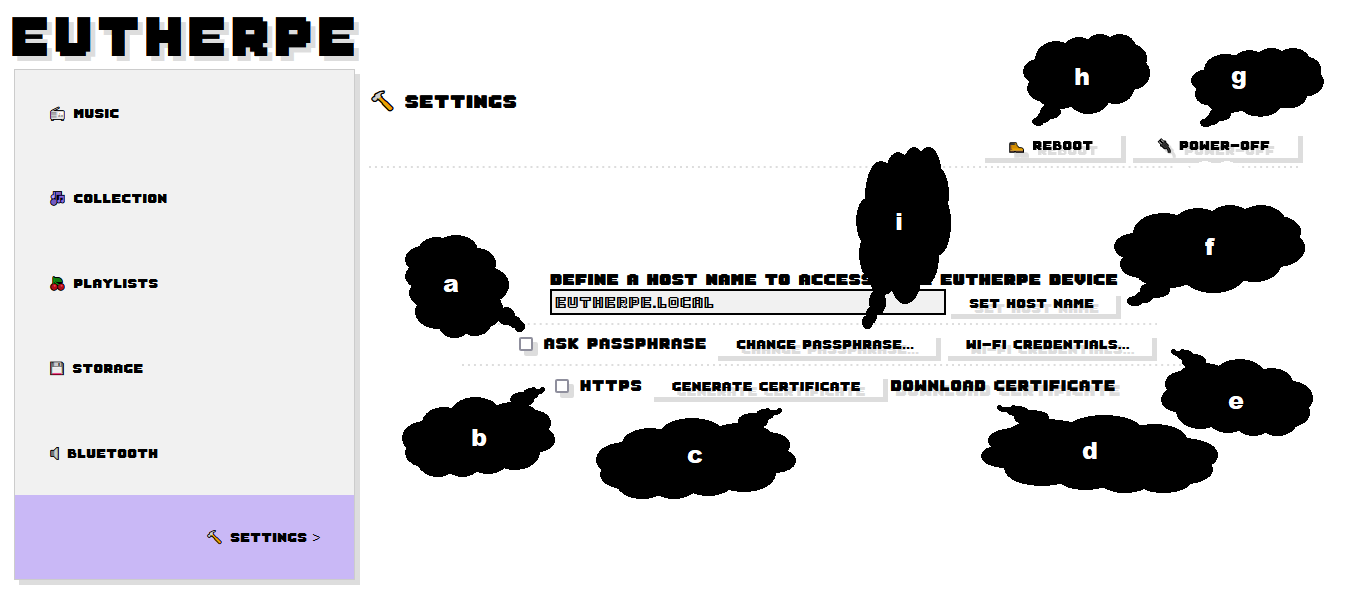
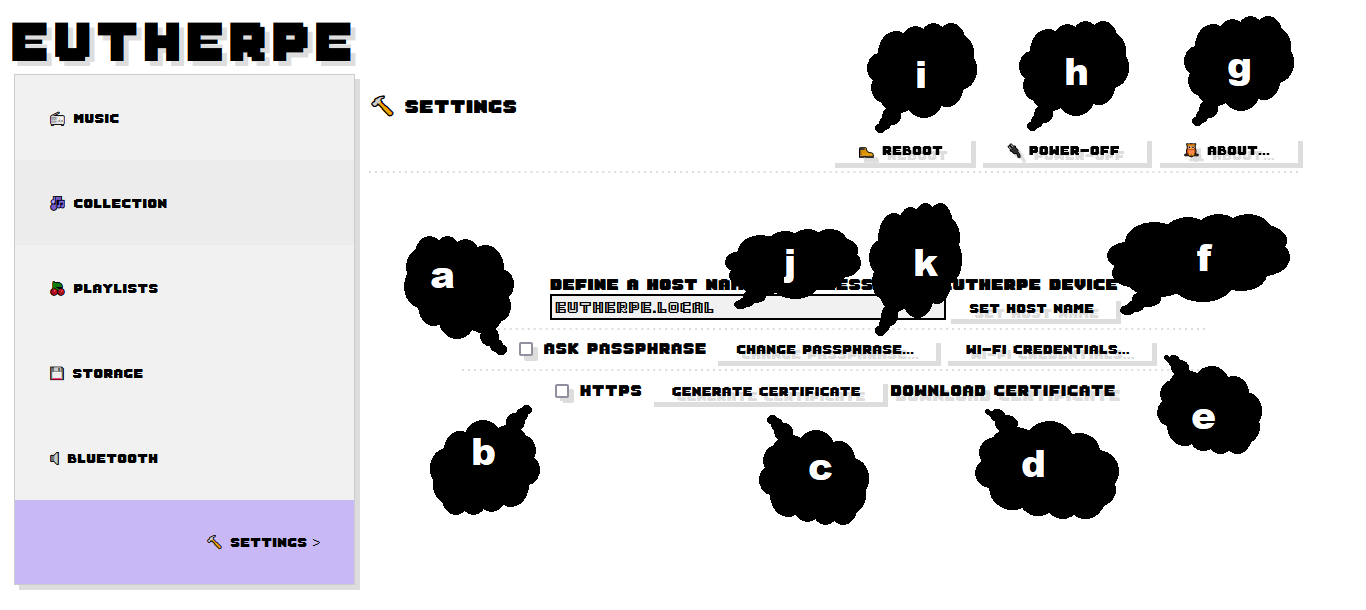
Update documentation

diff --git a/doc/MANUAL-PT.md b/doc/MANUAL-PT.md
@@ -417,13 +417,15 @@ militante/ilitante da criptografia (e com orgulho!) :smile:
 - **f.** Você confirma o nome para acessar a interface `Web Eutherpe`. É importante que seja nos moldes
 `<algo>.local`, se você digitar apenas `<algo>` `Eutherpe` vai completar isso com `.local` para
 terminar de configurar.
-- **g.** Clique aqui e você desliga o dispositivo que está rodando `Eutherpe` (isso é bom para quando
+- **g.** Clique aqui e você terá informações sobre versão e licença.
+- **h.** Clique aqui e você desliga o dispositivo que está rodando `Eutherpe` (isso é bom para quando
 você estiver rodando `Eutherpe` embarcada [na verdade essa é a ideia base] e não quiser colocar
 um botão liga/desliga na sua placa).
-- **h.** Clique aqui e você reinicia o dispositivo que está rodando `Eutherpe`, você sabe, em computação
+- **i.** Clique aqui e você reinicia o dispositivo que está rodando `Eutherpe`, você sabe, em computação
 sempre tem momentos em que acabamos precisando de um `reboot`. Embora procure deixar `Eutherpe`
 o mais estável possível para você :wink:!
-- **i.** Se você quiser alterar a senha de acesso à interface `Web` clica aqui. Se esquecer a
+- **j.** Nessa caixa de texto você define o nome para acessar a interface `Web Eutherpe`.
+- **k.** Se você quiser alterar a senha de acesso à interface `Web` clica aqui. Se esquecer a
 senha vai ter que fazer umas madracarias para resetar. Mais para frente te mostro!
 
 [`Voltar`](#tópicos)

diff --git a/doc/MANUAL-EN.md b/doc/MANUAL-EN.md
@@ -409,13 +409,15 @@ in you `Wi-Fi` by picking an `IP` that you can access via your smartphone, deskt
 - **f.** You confirm the local name to access the `Web` interface. It is important to follow the
 form `<something>.local`, it you just define `<something>` `Eutherpe` you complete it with
 `.local` in order to finish up configuring.
-- **g.** Click here and you shut down the device running `Eutherpe` (this is useful when you are
+- **g.** Click here and you will get information about licensing and versioning.
+- **h.** Click here and you shut down the device running `Eutherpe` (this is useful when you are
 running `Eutherpe` embedded [actually, this is the basic idea] but you do not want to put
 pushdown on/off button on your board).
-- **h.** Click here and you restart the device running `Eutherpe`, you know, in computing
+- **i.** Click here and you restart the device running `Eutherpe`, you know, in computing
 sometimes we need to `reboot` to troubleshoot. Although I seek to make `Eutherpe` as stable
 as possible to you :wiki:!
-- **i.** If you want to change the access passowrd to the `Web` interface, click here.
+- **j.** In this edit you define the used name to access the `Eutherpe`'s `Web Interface`.
+- **k.** If you want to change the access passowrd to the `Web` interface, click here.
 If you forget the password you will have to do some incantations to reset it. More on over!
 
 [`Back`](#topics)
